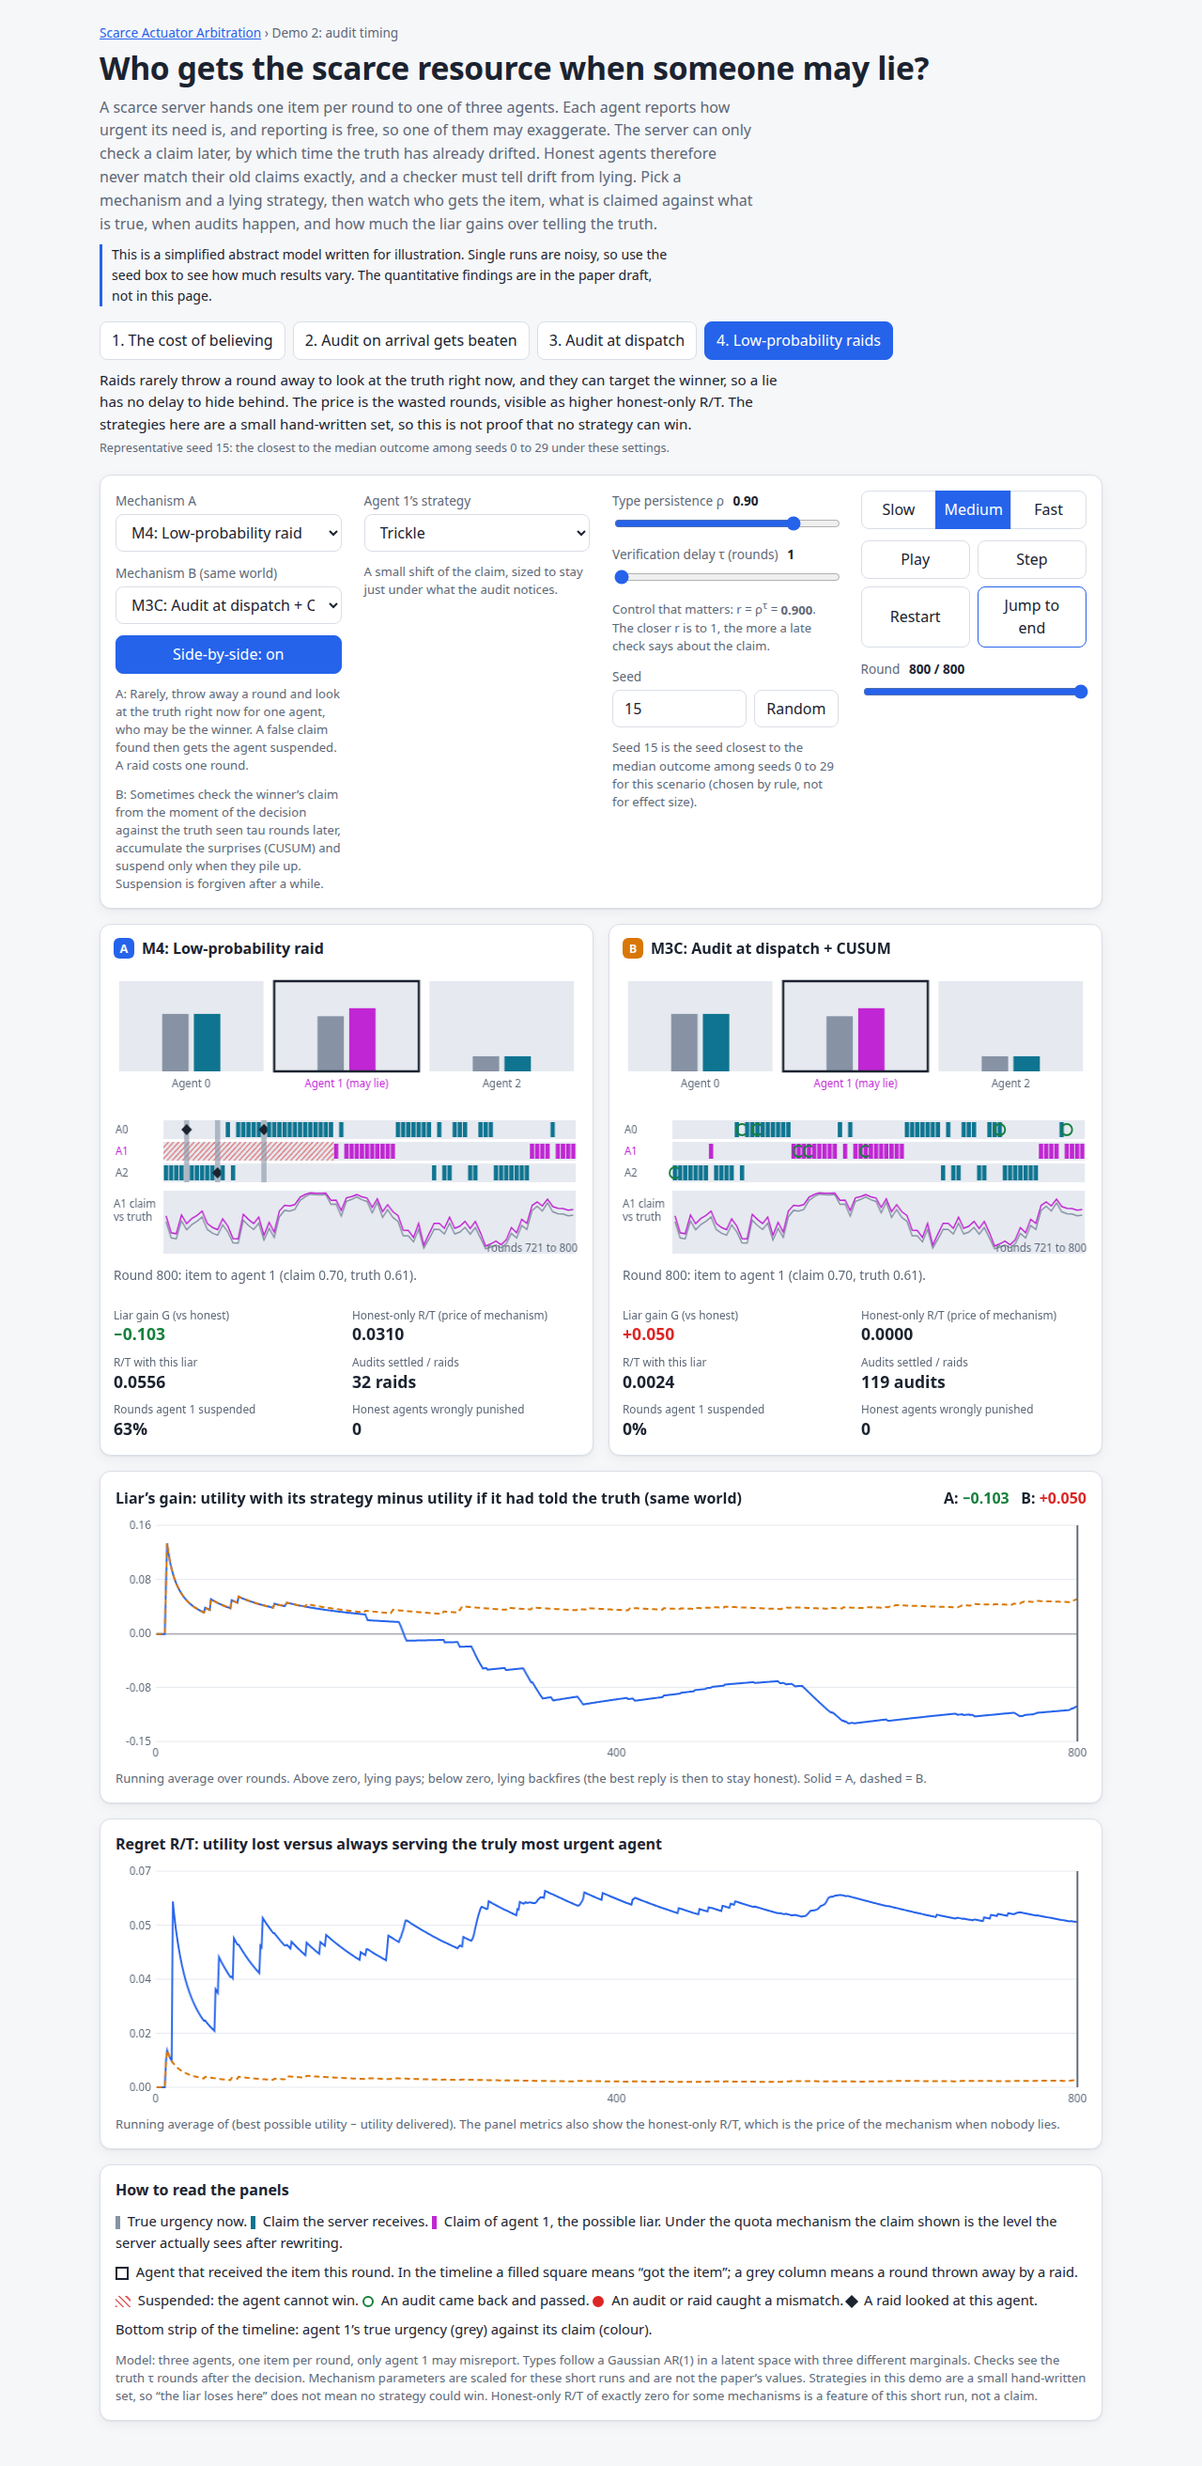
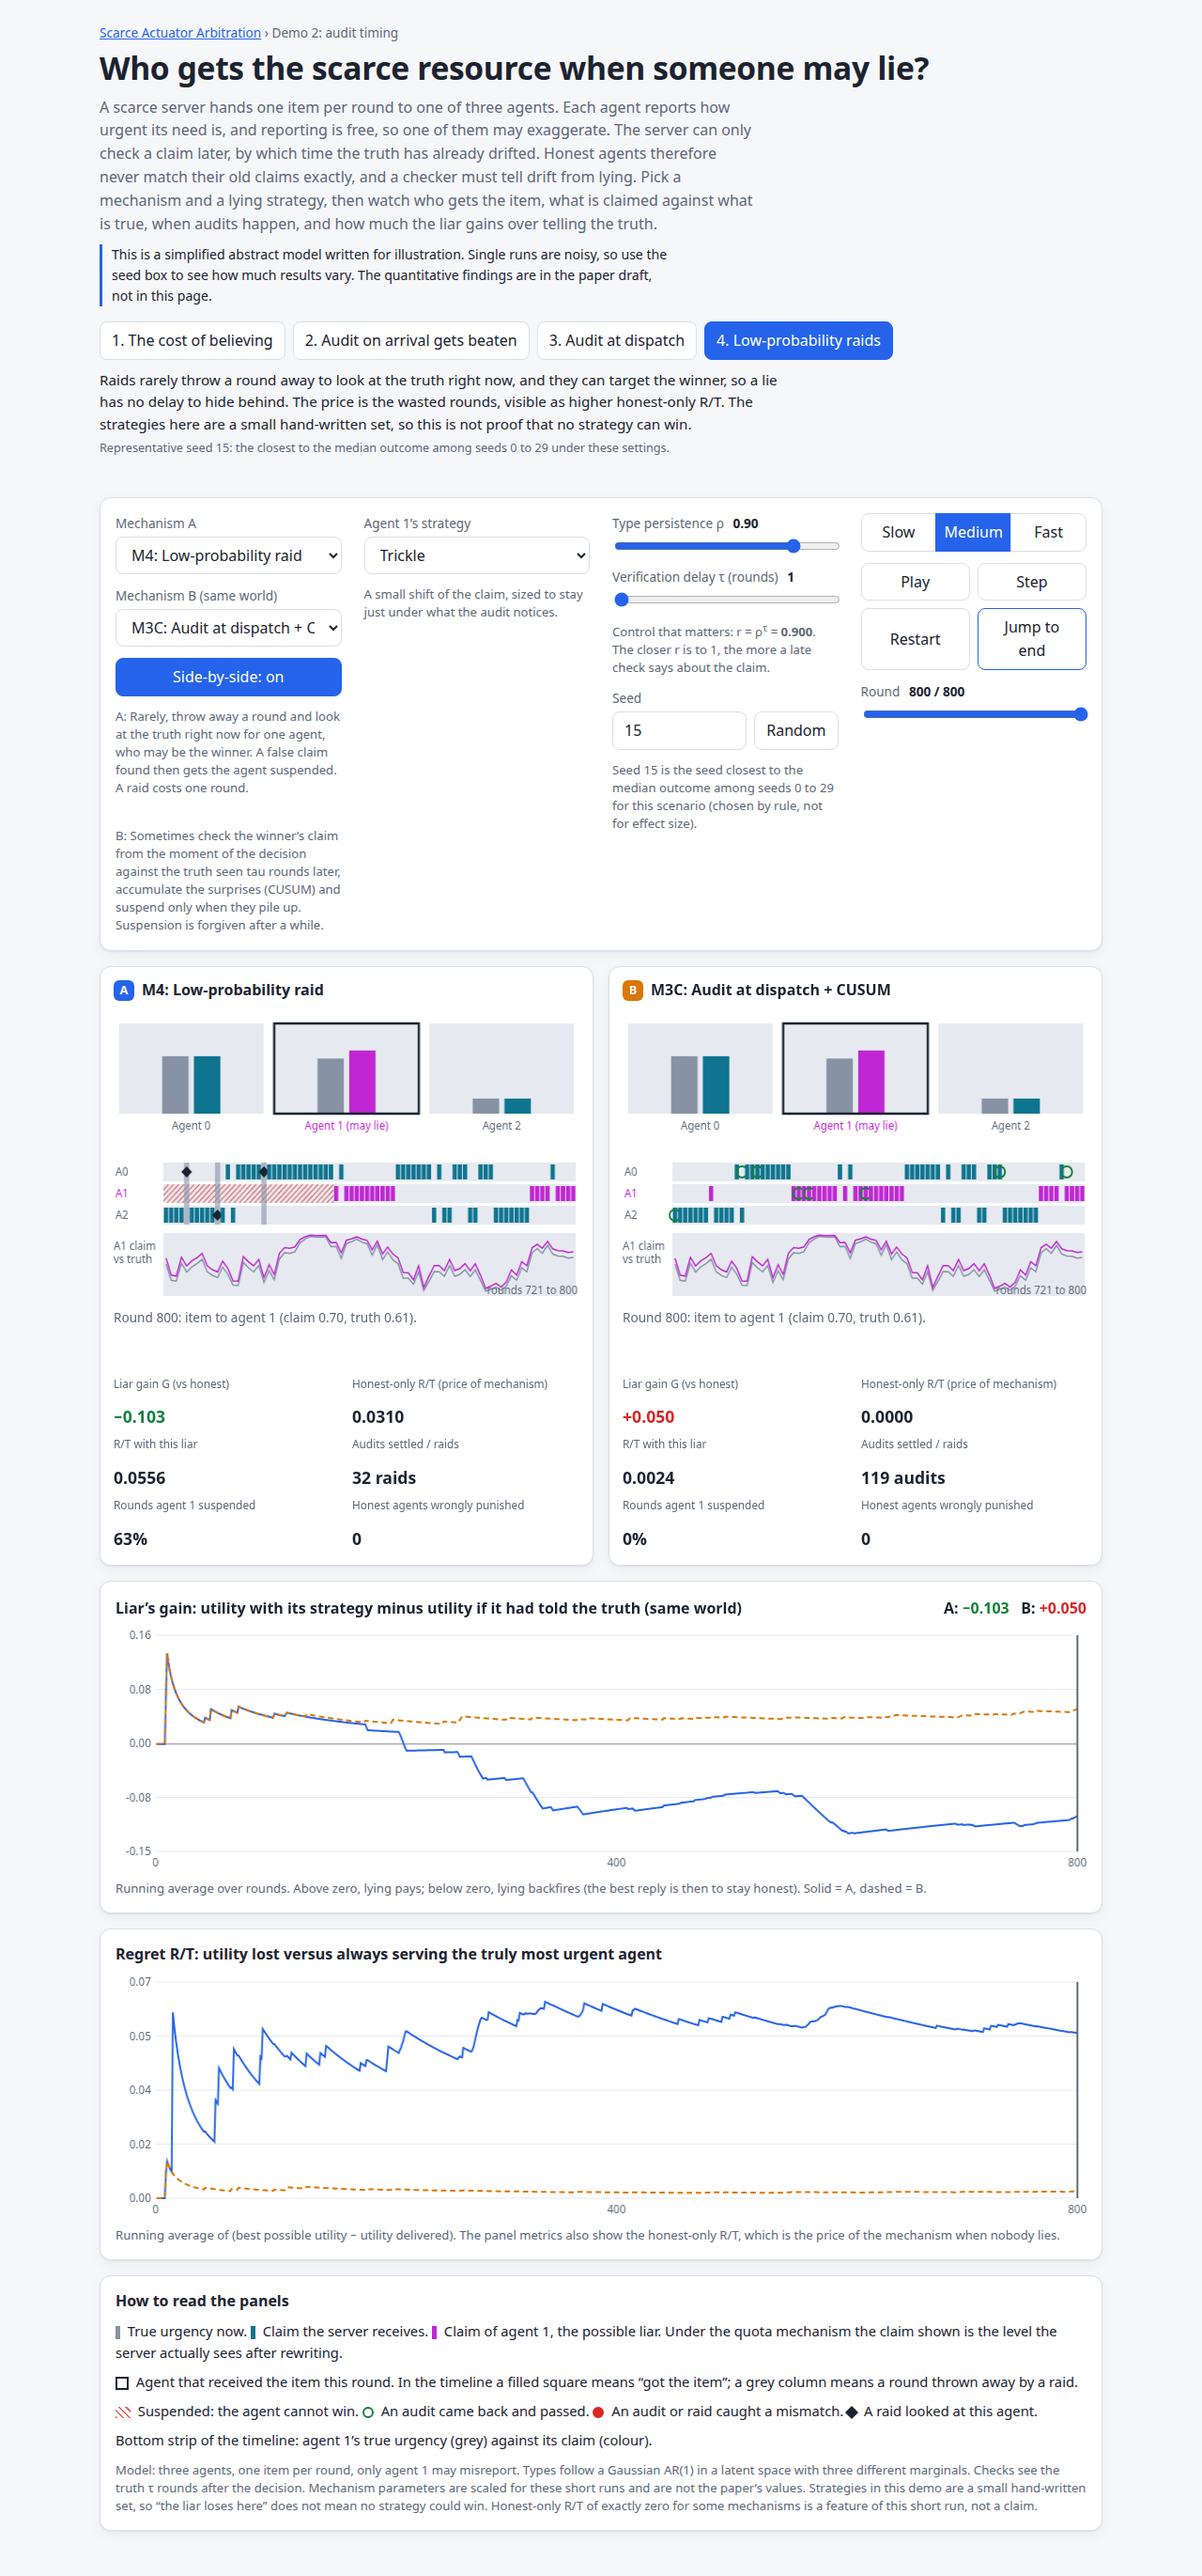
Fix layout jitter in demo pages (reserve space for variable-length captions)

diff --git a/docs/demo2/app.js b/docs/demo2/app.js
@@ -44,7 +44,27 @@
     $('mechBwrap').hidden = !st.cmp;
     const pr = st.preset && PRESETS[st.preset];
     $('seedLbl').textContent = pr && +$('seed').value === pr.seed ? `Seed ${pr.seed} is the seed closest to the median outcome among seeds 0 to 29 for this scenario (chosen by rule, not for effect size).` : 'Same seed, same world: reload with the same settings to reproduce.';
-    layout(); draw();
+    layout(); reserveAll(); draw();
+  }
+
+  // ---------- reserve space for variable-length text so the layout never jumps
+  function reserve(elm, texts, html) {
+    if (!elm || !elm.parentElement) return;
+    const probe = elm.cloneNode(false); probe.removeAttribute('id'); probe.removeAttribute('hidden');
+    probe.style.cssText = 'position:absolute;visibility:hidden;pointer-events:none;min-height:0;height:auto;display:block;width:' + elm.getBoundingClientRect().width + 'px';
+    elm.parentElement.appendChild(probe);
+    let hmax = 0;
+    for (const tx of texts) { if (html) probe.innerHTML = tx; else probe.textContent = tx; hmax = Math.max(hmax, probe.getBoundingClientRect().height); }
+    probe.remove(); elm.style.minHeight = Math.ceil(hmax) + 'px';
+  }
+  const WORST_STATUS = 'Round 800: item to agent 1 (claim 0.00, truth 0.00). Audit settled for agent 1: mismatch, suspended. Raid looked at agent 1: false claim, suspended. Agent 1 is suspended.';
+  function reserveAll() {
+    const mh = Object.values(S.MECHS).map(m => m.help), sh = Object.values(S.STRATS).map(m => m.help);
+    const wasHidden = $('mechBwrap').hidden;
+    reserve($('helpA'), mh.map(x => 'A: ' + x)); reserve($('helpB'), mh.map(x => 'B: ' + x)); reserve($('helpS'), sh);
+    reserve($('seedLbl'), ['Seed 25 is the seed closest to the median outcome among seeds 0 to 29 for this scenario (chosen by rule, not for effect size).', 'Same seed, same world: reload with the same settings to reproduce.']);
+    reserve($('presetText'), Object.values(PRESETS).map(p => `${p.text}<small>Representative seed ${p.seed}: the closest to the median outcome among seeds 0 to 29 under these settings.</small>`), true);
+    for (const k of ['A', 'B']) if (el[k]) reserve(el[k].status, [WORST_STATUS]);
   }
 
   function layout() {
@@ -242,7 +262,8 @@
   document.querySelectorAll('[data-speed]').forEach(b => b.addEventListener('click', () => {
     st.speed = +b.dataset.speed; document.querySelectorAll('[data-speed]').forEach(x => x.setAttribute('aria-pressed', String(x === b)));
   }));
-  let rt; window.addEventListener('resize', () => { clearTimeout(rt); rt = setTimeout(draw, 80); });
+  let rt; window.addEventListener('resize', () => { clearTimeout(rt); rt = setTimeout(() => { reserveAll(); draw(); }, 80); });
+  window.addEventListener('load', () => { reserveAll(); draw(); });
   if (window.matchMedia) matchMedia('(prefers-color-scheme: dark)').addEventListener('change', draw);
   window.__demo = { st, applyPreset, draw };
   applyPreset('naive');

diff --git a/docs/demo2/style.css b/docs/demo2/style.css
@@ -34,16 +34,17 @@ button:focus-visible,select:focus-visible,input:focus-visible{outline:2px solid 
 .controls{display:grid;grid-template-columns:repeat(auto-fit,minmax(230px,1fr));gap:18px 24px}
 .grp{display:flex;flex-direction:column;gap:12px;min-width:0}
 .row{display:flex;flex-direction:column;gap:4px}
-.row[hidden]{display:none}
+.row[hidden]{display:flex;visibility:hidden}
 label{font-size:.85rem;color:var(--muted)}
-output{color:var(--fg);font-weight:600;margin-left:6px}
+output{color:var(--fg);font-weight:600;margin-left:6px;display:inline-block;min-width:4.5ch;font-variant-numeric:tabular-nums}
 select,input[type=number]{width:100%}
 input[type=range]{width:100%;accent-color:var(--accent)}
 .seedrow{display:flex;gap:8px}
 .seedrow input{flex:1;min-width:0}
 .wide{width:100%}
 .help{margin:0;font-size:.82rem;color:var(--muted);line-height:1.45}
-.help:empty,.help[hidden]{display:none}
+.help[hidden]{display:none}
+.help:empty{display:block}
 .seg{display:flex}
 .seg button{flex:1;border-radius:0;margin-left:-1px;padding:7px 6px}
 .seg button:first-child{border-radius:8px 0 0 8px;margin-left:0}
@@ -57,14 +58,14 @@ input[type=range]{width:100%;accent-color:var(--accent)}
 .panel canvas+canvas{margin-top:8px}
 .tag{display:inline-grid;place-items:center;width:22px;height:22px;border-radius:6px;font-size:.8rem;color:var(--bg);font-weight:700;flex:none}
 .tA{background:var(--a)}.tB{background:var(--b)}
-.status{margin:8px 0 0;font-size:.85rem;color:var(--muted);min-height:2.6em}
+.status{margin:8px 0 0;font-size:.85rem;color:var(--muted);min-height:2.6em;font-variant-numeric:tabular-nums}
 .metrics{display:grid;grid-template-columns:1fr 1fr;gap:8px 12px;margin:10px 0 0}
 .metrics div{min-width:0}
-.metrics dt{font-size:.74rem;color:var(--muted);line-height:1.25}
-.metrics dd{margin:0;font-size:1.1rem;font-weight:600;font-variant-numeric:tabular-nums;overflow-wrap:anywhere}
+.metrics dt{font-size:.74rem;color:var(--muted);line-height:1.25;min-height:2.5em}
+.metrics dd{margin:0;min-height:1.55em;font-size:1.1rem;font-weight:600;font-variant-numeric:tabular-nums;overflow-wrap:anywhere}
 .charthead{display:flex;justify-content:space-between;align-items:baseline;gap:12px;flex-wrap:wrap}
 .charthead h3{margin:0;flex:1 1 260px}
-.delta{font-weight:600;font-variant-numeric:tabular-nums}
+.delta{font-weight:600;font-variant-numeric:tabular-nums;min-height:1.55em;min-width:15ch;white-space:nowrap}
 .delta .pos{color:var(--pos)}.delta .neg{color:var(--neg)}
 .chartcard canvas{margin:8px 0}
 .legend ul{list-style:none;margin:0 0 12px;padding:0;display:grid;gap:8px;font-size:.92rem}

diff --git a/docs/demo/demo.js b/docs/demo/demo.js
@@ -477,6 +477,20 @@
     $('pause').textContent = state.paused ? 'Resume' : 'Pause';
     $('pause').setAttribute('aria-pressed', state.paused);
   }
+  // reserve space for variable-length captions so the layout does not jump
+  function reserve(elm, texts, html) {
+    const probe = elm.cloneNode(false); probe.removeAttribute('id'); probe.removeAttribute('hidden');
+    probe.style.cssText = 'position:absolute;visibility:hidden;pointer-events:none;min-height:0;height:auto;display:block;width:' + elm.getBoundingClientRect().width + 'px';
+    elm.parentElement.appendChild(probe);
+    let hmax = 0;
+    for (const tx of texts) { if (html) probe.innerHTML = tx; else probe.textContent = tx; hmax = Math.max(hmax, probe.getBoundingClientRect().height); }
+    probe.remove(); elm.style.minHeight = Math.ceil(hmax) + 'px';
+  }
+  function reserveAll() {
+    const hs = Object.values(POLICY_HELP);
+    reserve($('helpA'), hs.map(x => 'A: ' + x)); reserve($('helpB'), hs.map(x => 'B: ' + x));
+    reserve($('presetText'), Object.values(PRESETS).map(P => '<strong>' + P.title + '.</strong> ' + P.text), true);
+  }
   function applyPreset(key) {
     const P = PRESETS[key], s = P.set;
     state.compare = s.compare; $('polA').value = s.a; $('polB').value = s.b; $('ninfl').value = s.nInfl;
@@ -504,11 +518,12 @@
     $('ff').onclick = () => fastForward(2000);
     document.querySelectorAll('[data-speed]').forEach(b => b.onclick = () => { state.speed = +b.dataset.speed; updateLabels(); });
     document.querySelectorAll('[data-preset]').forEach(b => b.onclick = () => applyPreset(b.dataset.preset));
-    window.addEventListener('resize', sizeCanvases);
+    window.addEventListener('resize', () => { sizeCanvases(); reserveAll(); });
     window.matchMedia('(prefers-color-scheme: dark)').addEventListener('change', readColors);
     readColors();
     $('polA').value = 'audit_index'; $('polB').value = 'audit_disp_index';
-    applyPreset('audit');
+    applyPreset('audit'); reserveAll();
+    window.addEventListener('load', reserveAll);
     requestAnimationFrame(t => { last = t; frame(t); });
   }
   if (document.readyState === 'loading') document.addEventListener('DOMContentLoaded', init); else init();

diff --git a/docs/demo/style.css b/docs/demo/style.css
@@ -29,7 +29,7 @@ button:focus-visible,select:focus-visible,input:focus-visible{outline:2px solid 
 .controls{display:grid;grid-template-columns:repeat(auto-fit,minmax(230px,1fr));gap:18px 24px}
 .grp{display:flex;flex-direction:column;gap:12px;min-width:0}
 .row{display:flex;flex-direction:column;gap:4px}
-.row[hidden]{display:none}
+.row[hidden]{display:flex;visibility:hidden}
 label{font-size:.85rem;color:var(--muted)}
 output{color:var(--fg);font-weight:600;margin-left:6px}
 select,input[type=number]{width:100%}
@@ -38,7 +38,7 @@ input[type=range]{width:100%;accent-color:var(--accent)}
 .seedrow input{flex:1;min-width:0}
 .wide{width:100%}
 .help{margin:0;font-size:.82rem;color:var(--muted);line-height:1.45}
-.help:empty,.help[hidden]{display:none}
+.help:empty,.help[hidden]{display:block;visibility:hidden}
 .run{justify-content:flex-start}
 .seg{display:flex}
 .seg button{flex:1;border-radius:0;margin-left:-1px}
@@ -56,11 +56,12 @@ input[type=range]{width:100%;accent-color:var(--accent)}
 .tA{background:var(--a)}.tB{background:var(--b)}
 .metrics{display:grid;grid-template-columns:1fr 1fr;gap:8px 12px;margin:12px 0 0}
 .metrics div{min-width:0}
-.metrics dt{font-size:.74rem;color:var(--muted);line-height:1.25}
+.metrics dt{font-size:.74rem;color:var(--muted);line-height:1.25;min-height:2.5em}
 .metrics dd{margin:0;font-size:1.15rem;font-weight:600;font-variant-numeric:tabular-nums;overflow-wrap:anywhere}
 .charthead{display:flex;justify-content:space-between;align-items:baseline;gap:12px;flex-wrap:wrap}
 .charthead h3{margin:0}
-.delta{font-weight:600}
+.delta{font-weight:600;min-height:3.6em}
+.delta[hidden]{display:block;visibility:hidden}
 .delta span{font-size:1.4rem;font-variant-numeric:tabular-nums}
 .delta .pos{color:var(--pos)}.delta .neg{color:var(--neg)}
 .chartcard canvas{display:block;max-width:100%;margin:8px 0}
